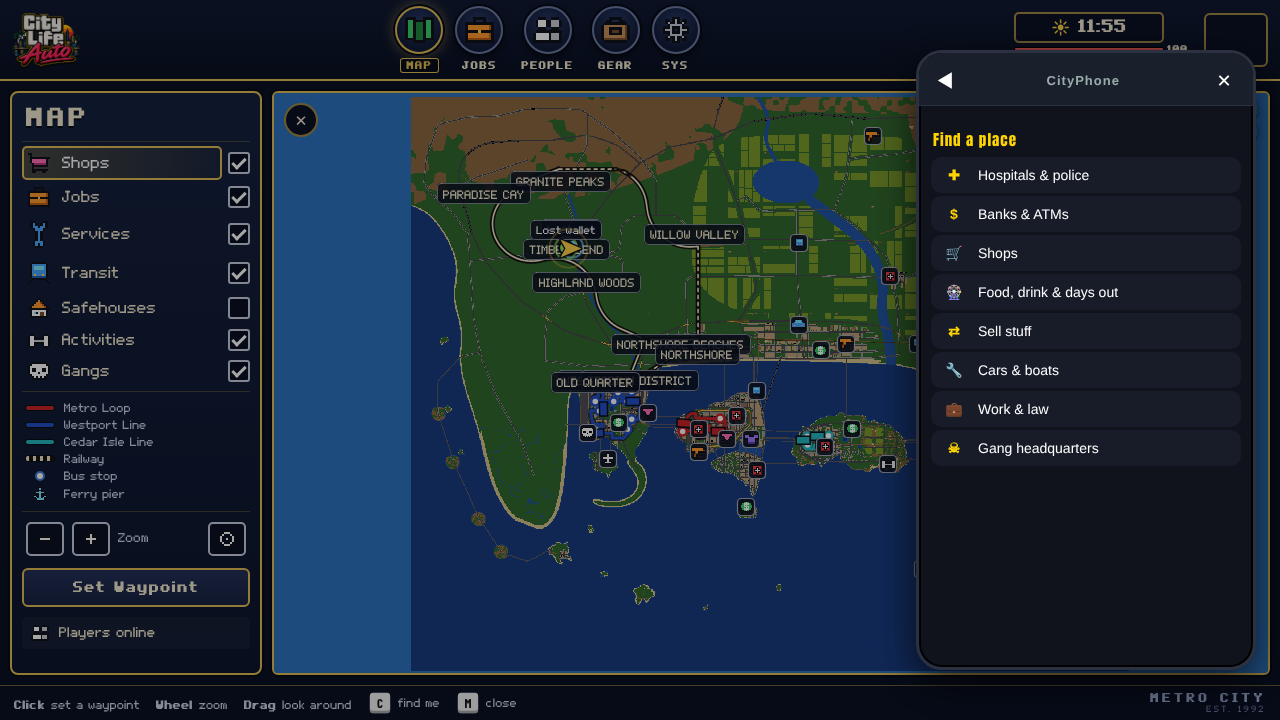
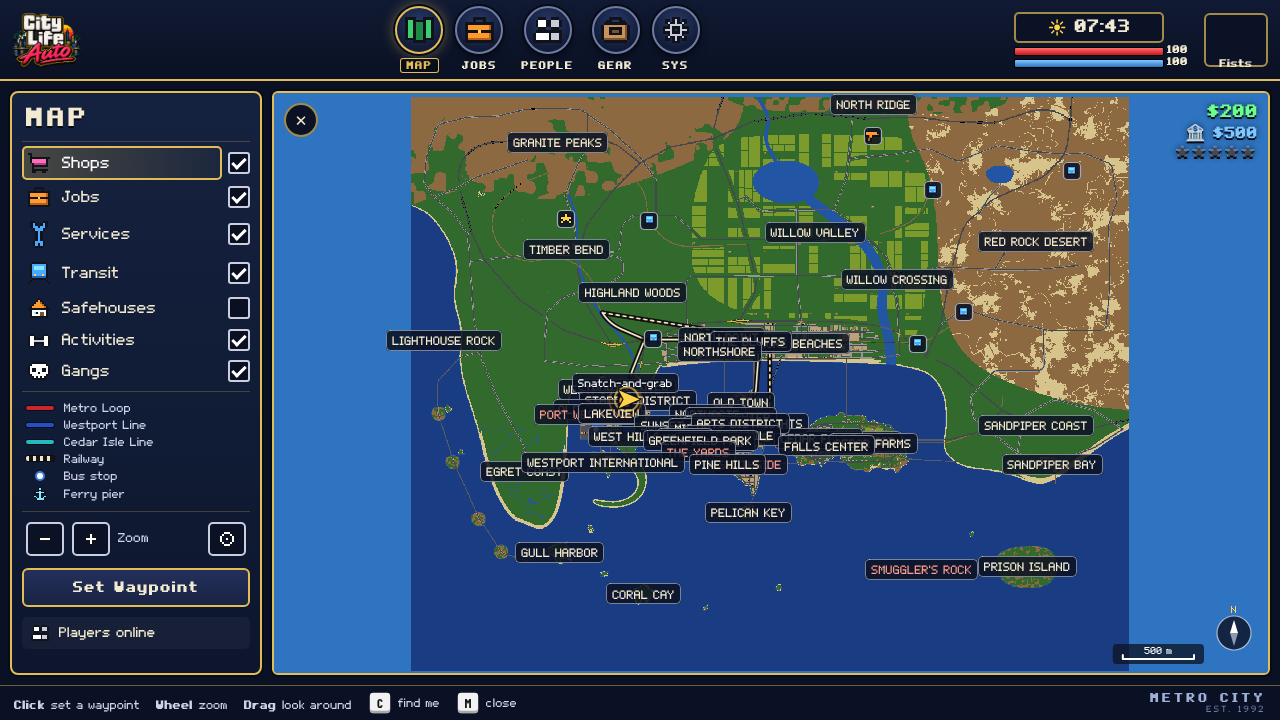
World v3 8.12.2: the second playtest - the big map names every district, a far teleport moves the window
Claude-Session: https://claude.ai/code/session_015TdwbASoLBxZr1VoEZGToX

diff --git a/docs/WORLD-V3.md b/docs/WORLD-V3.md
@@ -2865,7 +2865,8 @@ any of it: today's world keeps its path - the kept city, the download of the who
 | The places | 860 at v3 (339 outside the window round the gulf's hospital) |
 | **The page** (headless Chromium, `CLA_WORLD=v3`, `?world=v3`, a fresh browser) | the window (the index and 9 regions) downloaded and the Play button live **1.9 s** after opening; in the city after 28 s; the window moved at once to round the spawn (r1-1 ... r3-3, Timber Bend): assembled in 1.1 s, swapped in 0.14 s; the minimap 1260 x 1008 (k 4) + the window's 1512 x 1512 |
 | The phone's Places app (hospitals and police), at Timber Bend | 17 places, **15 of them outside the window** - Westport PD and Westport General (Westport Center), Northshore Medical and Sheriff, the city's clinics and Metro City PD (Midtown, Northgate, Downtown, Civic Center) - with their districts and distances (`docs/world-v3-window-places.png`) |
-| The big map, at Timber Bend | the coarse picture of the whole frame, the whole world's places' icons (Metro City's, Westport's, the airport's) beyond the window (`docs/world-v3-window-bigmap.png`) |
+| The big map | the coarse picture of the whole frame, the whole world's places' icons (Metro City's, Westport's) beyond the window; with the districts' middles (a second run, in the city after 13 s) **every district of the world named** - 50, North Ridge to Prison Island, Gull Harbor and Sandpiper Bay (`docs/world-v3-window-bigmap.png`) |
+| A far teleport (the second run: to tile 3300, 2600) | the window r2-3 ... r4-5 -> r5-4 ... r7-6: assembled in 0.76 s, swapped in 0.12 s; the minimap's window picture drawn again over the coarse one |
 | **A return visit** (the page loaded again, the same browser) | the window round where the player was: **10 files from the browser, 0 downloaded**, ready 3.0 s after the reload |
 
 **What's left**

diff --git a/docs/DEVLOG.md b/docs/DEVLOG.md
@@ -7637,5 +7637,6 @@ Playtest (headless Chromium against a local `CLA_WORLD=v3` server, `?world=v3`):
 Play live 1.9 s after opening; spawned at Timber Bend, the window moved round it; the phone's Hospitals & police listed
 17 places, 15 outside the window (Westport, Northshore, Metro City's, with their districts and distances:
 docs/world-v3-window-places.png); the big map drew the coarse world and the whole world's icons
-(docs/world-v3-window-bigmap.png); the page loaded again in the same browser: the window from the browser, 10 files kept,
-0 downloaded. Art v2's statics bake warned once about a window's railway loop (`railAt`: 8.12's item 4, not this).
+and, with the districts' middles (a second run), every district's name - 50 (docs/world-v3-window-bigmap.png); a far
+teleport moved the window (assembled 0.76 s, swapped 0.12 s); the page loaded again in the same browser: the window from
+the browser, 10 files kept, 0 downloaded. Art v2's statics bake warned once about a window's railway loop (`railAt`: 8.12's item 4, not this).
